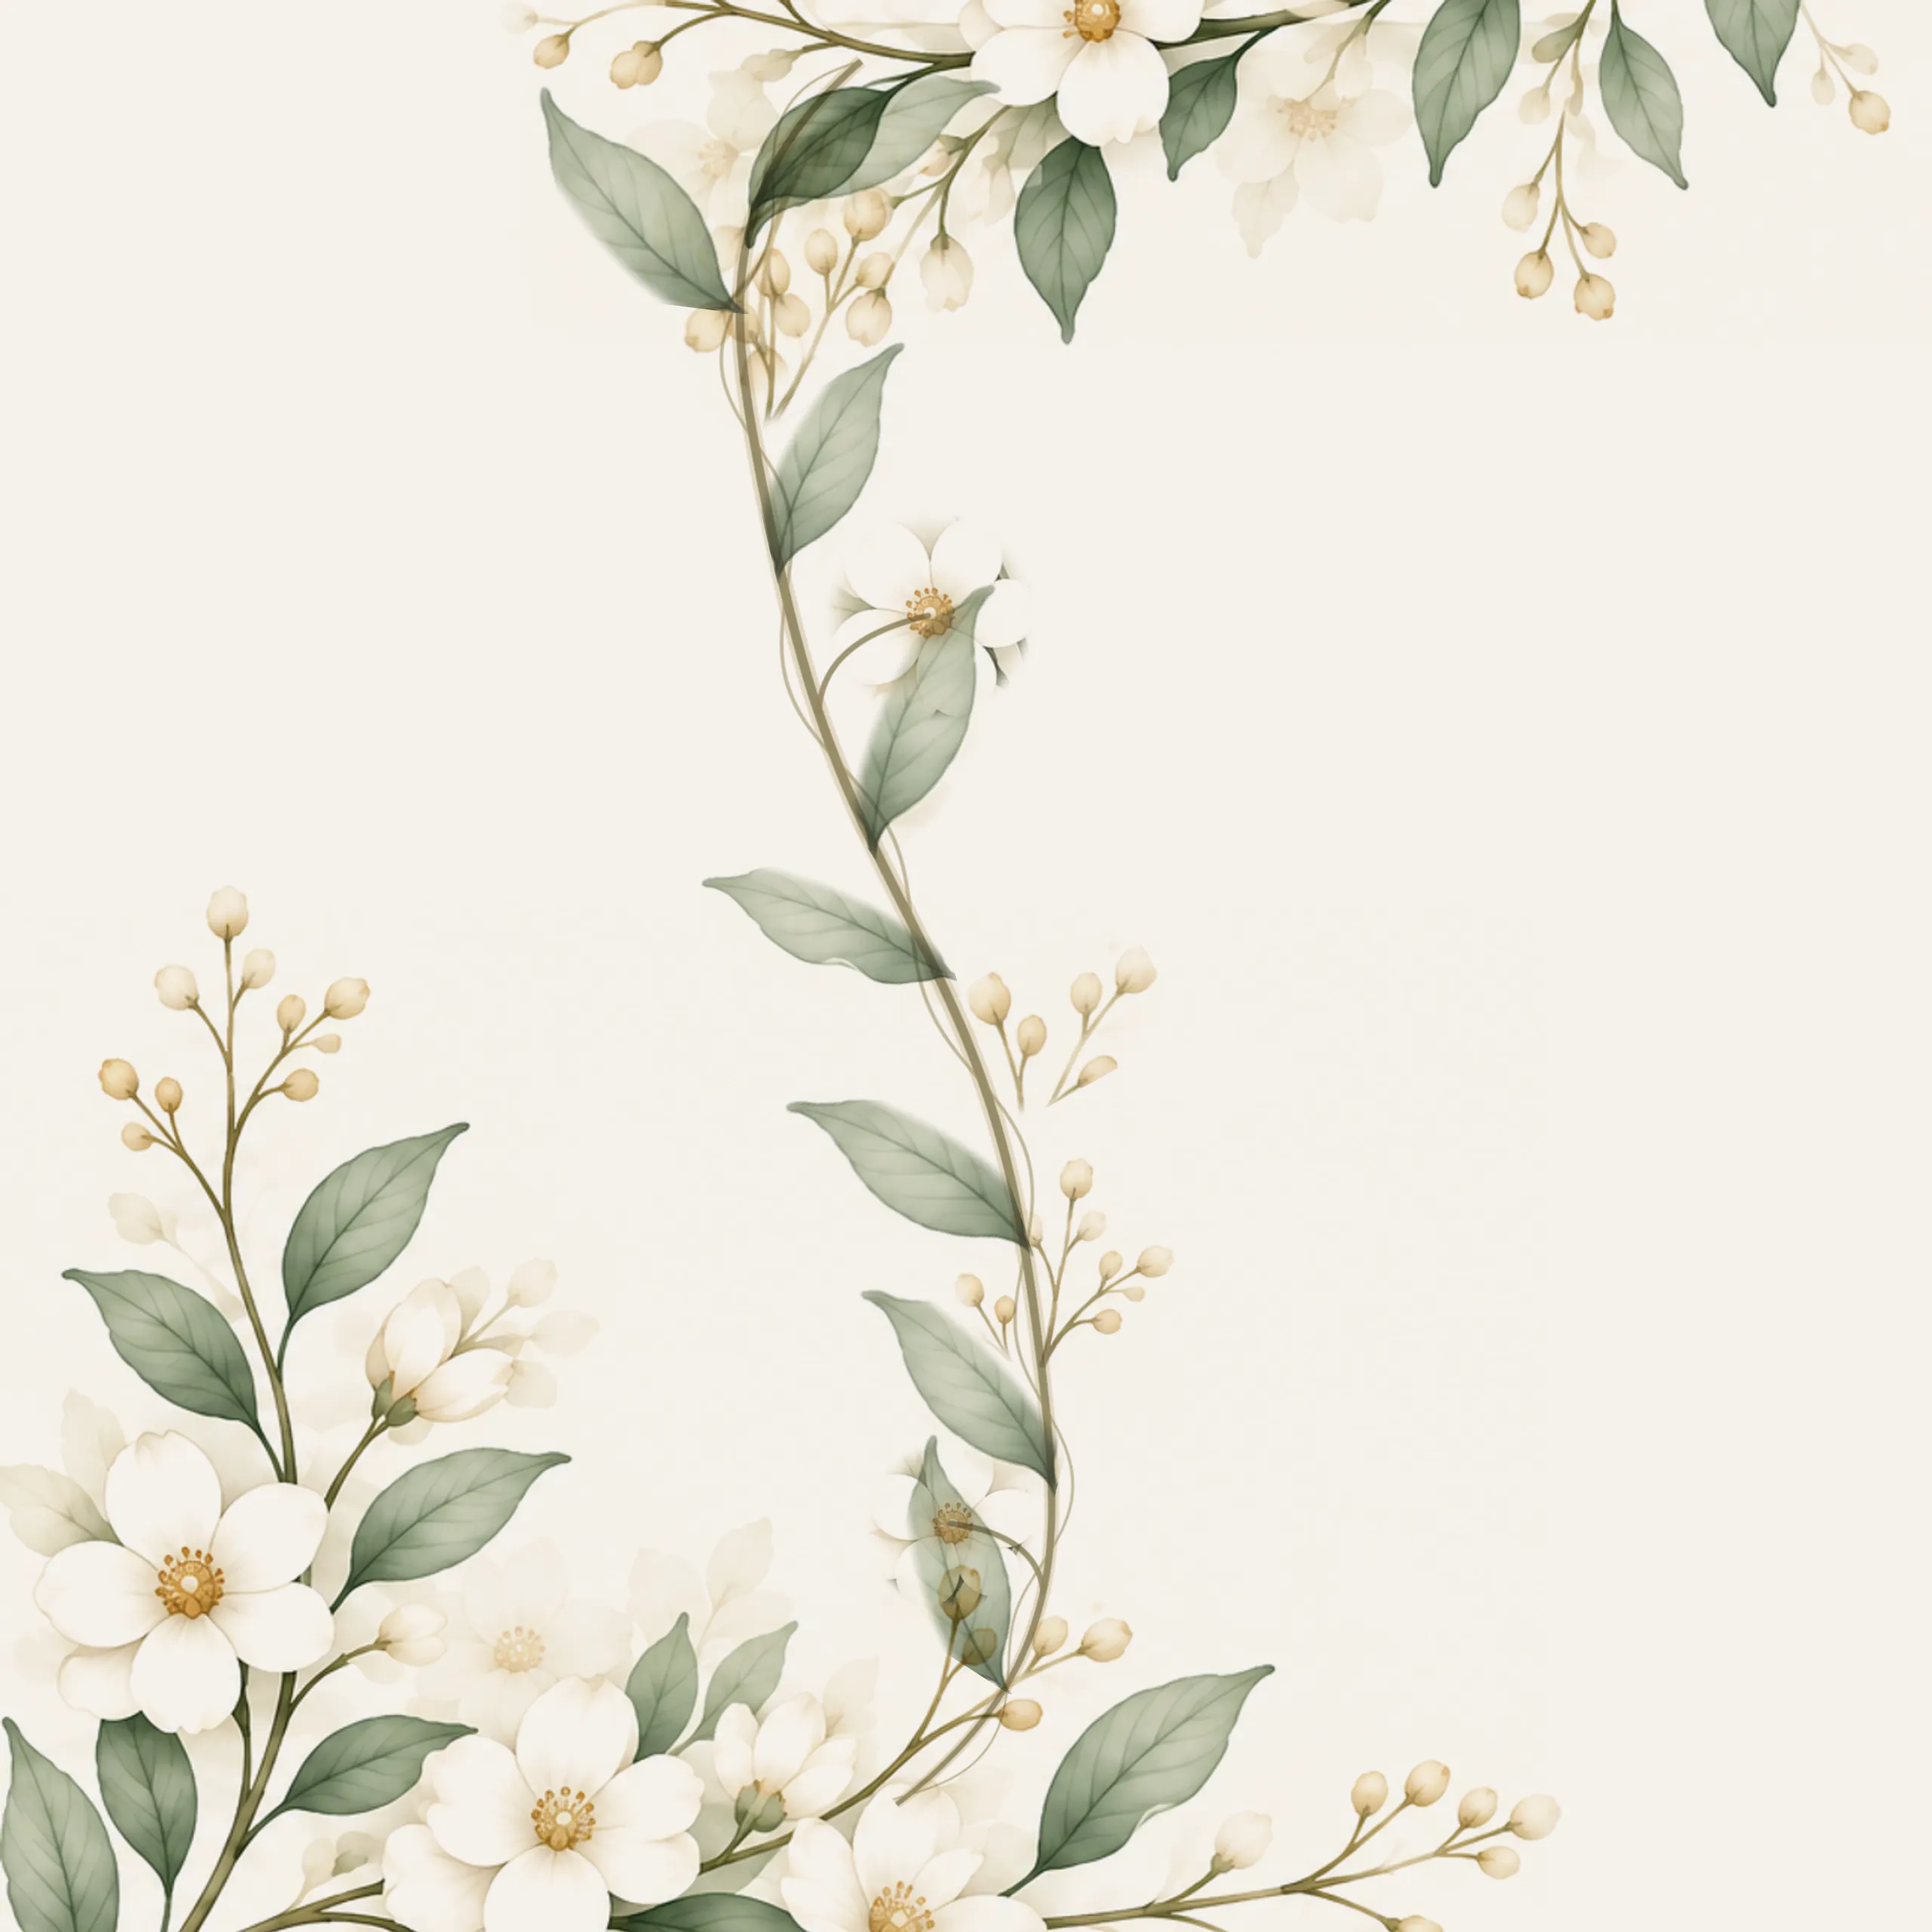
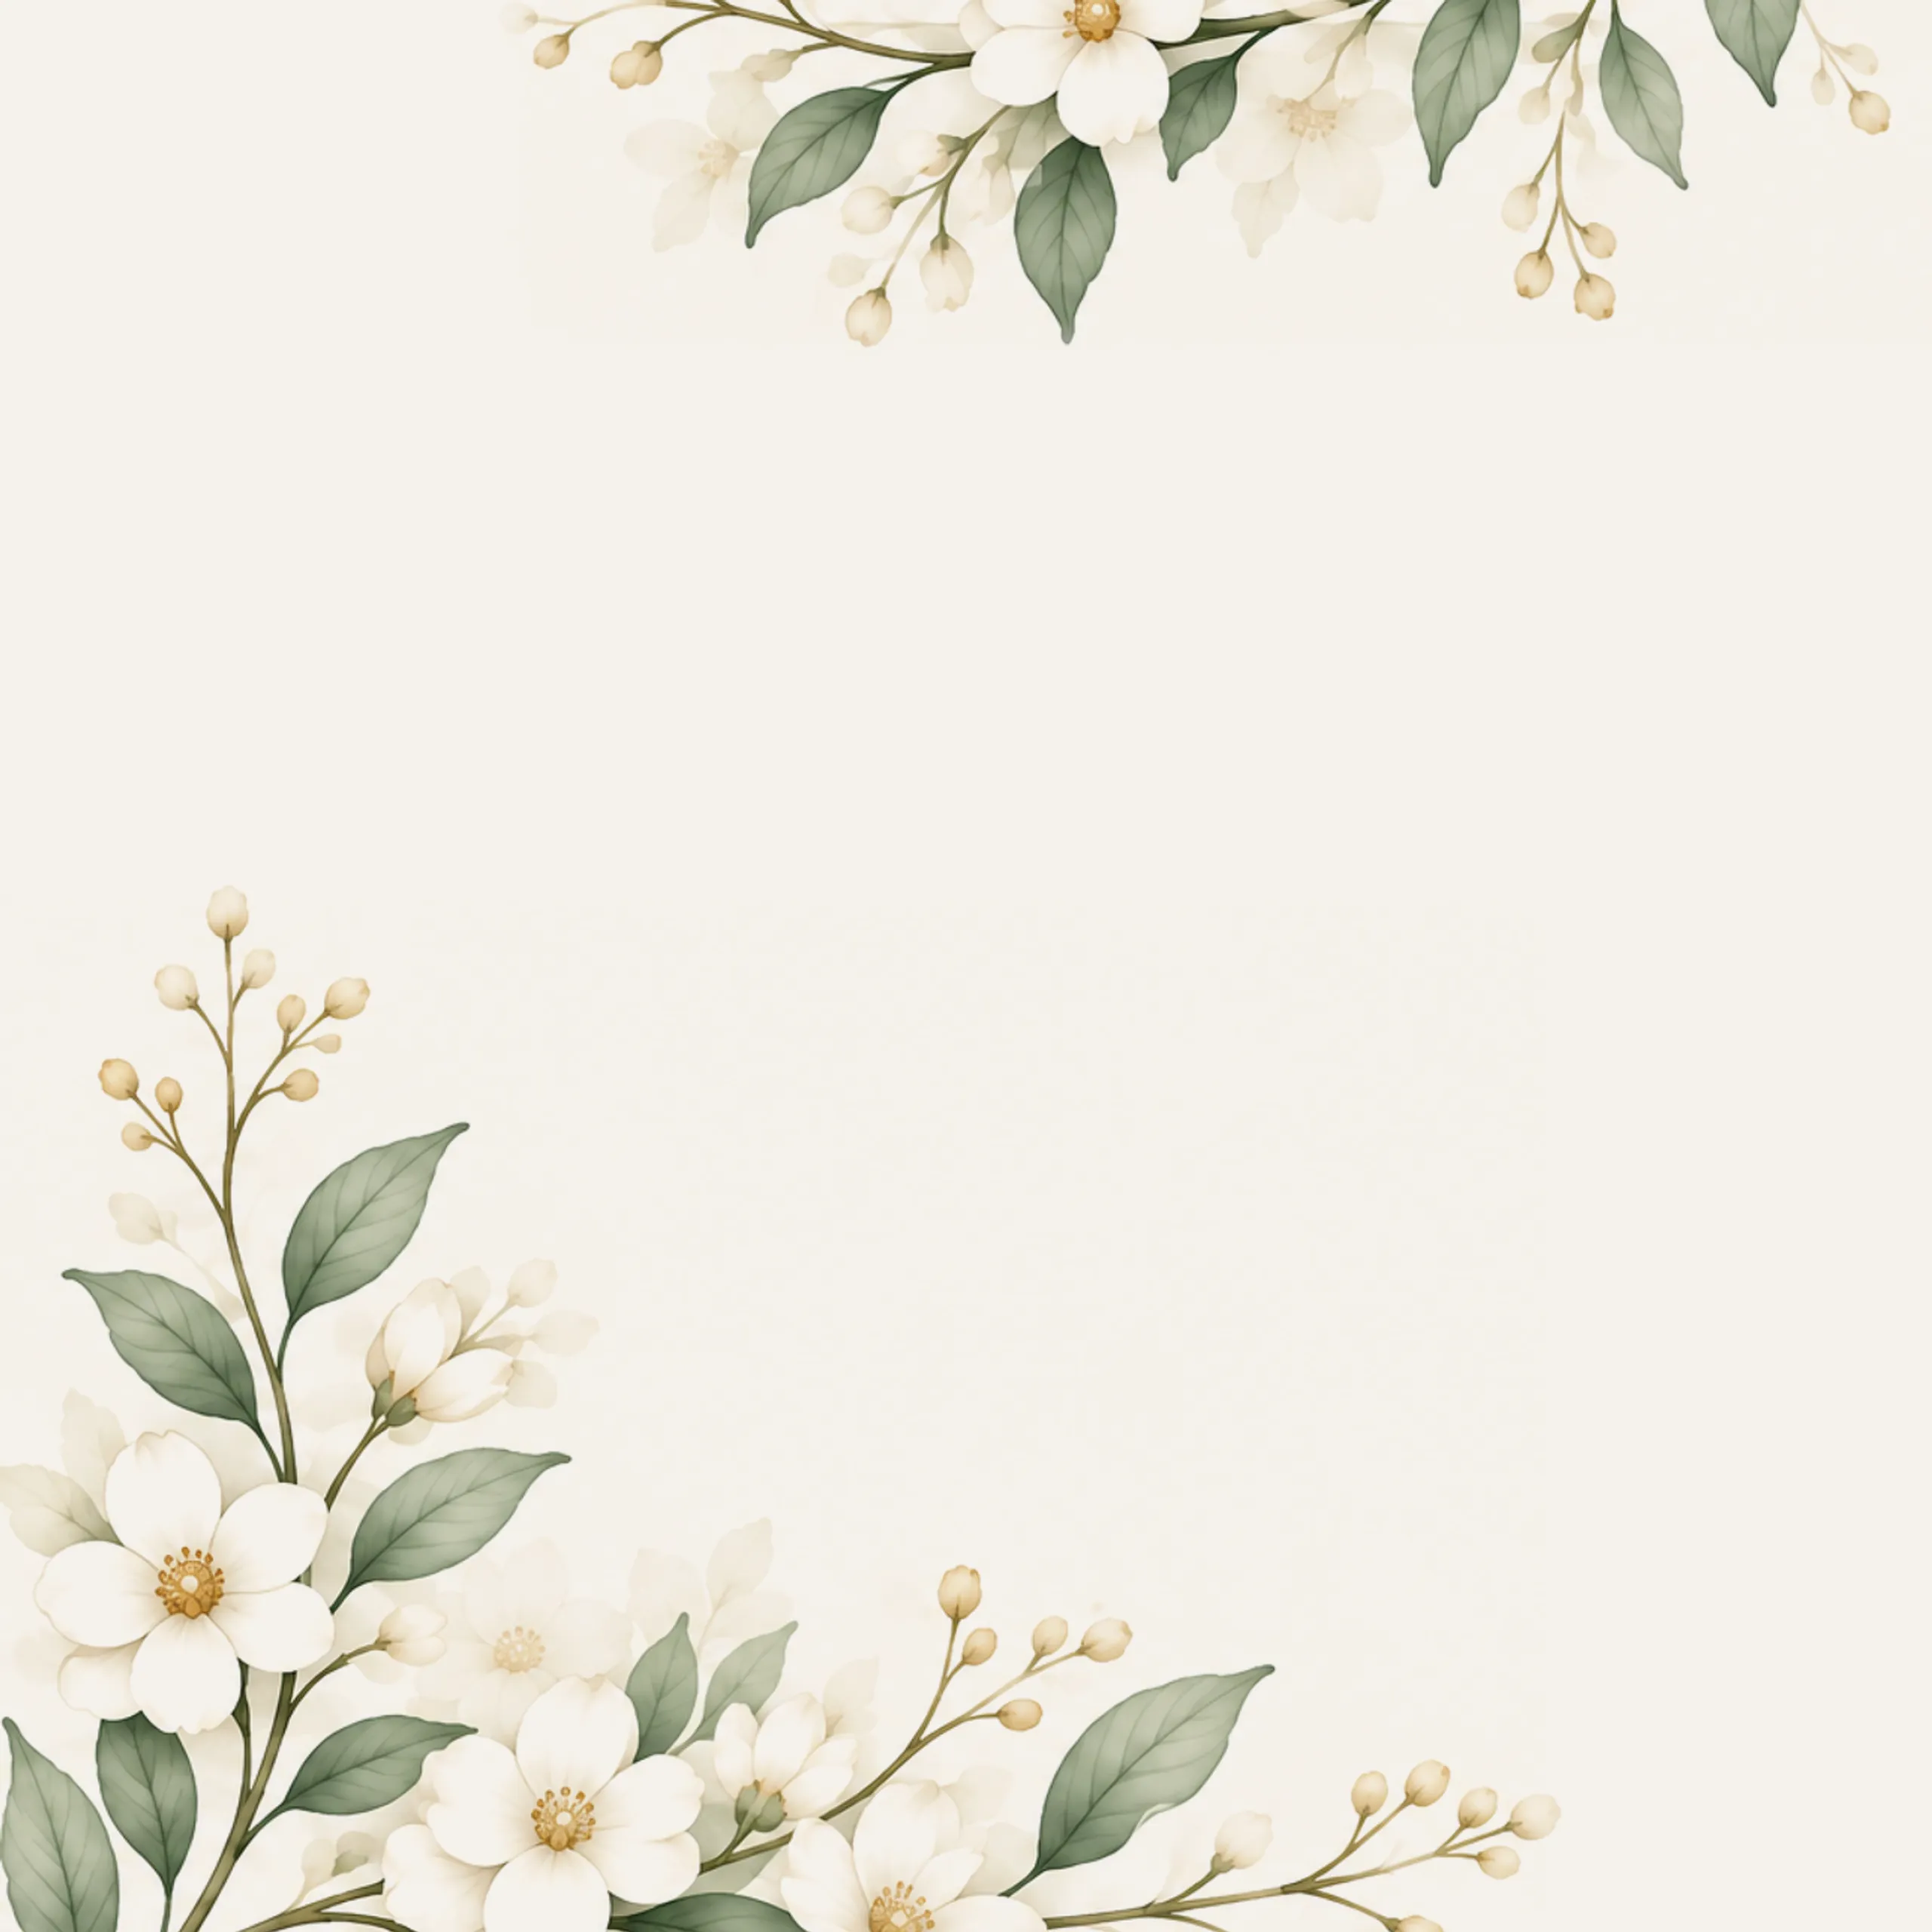
feat(botanical): Blossom loses the vine across the middle, keeping its two corner sprays (Pastor feedback, ticket 01)
Regenerated through scripts/botanical/compose.mjs; Tulips and Trees come out byte for byte the same.

Changed region(s): [[0.2812, 0.0312, 0.625, 0.9062], [0.4688, 0.9062, 0.5, 0.9375]]

diff --git a/tests/app/the-flower-stays-in-the-margins.test.ts b/tests/app/the-flower-stays-in-the-margins.test.ts
@@ -1,0 +1,39 @@
+import { readdirSync } from 'node:fs'
+import { fileURLToPath } from 'node:url'
+import sharp from 'sharp'
+import { describe, expect, it } from 'vitest'
+
+/**
+ * The watercolour behind sign-in and the Admin tabs (`public/botanical/`, painted by
+ * `scripts/botanical/compose.mjs`). Pastor feedback, ticket 01: the painting frames
+ * the content and never sits behind it, so Blossom keeps its two corner sprays and
+ * loses the vine that ran between them across the middle of the window.
+ *
+ * The stylesheet keeps the content column clear whatever the painting holds; this
+ * is the painting's own half of the rule, for every design at every window shape.
+ */
+const DIR = fileURLToPath(new URL('../../public/botanical/', import.meta.url))
+const PAPER = [0xf5, 0xf1, 0xeb] // --bg, which every composition is painted onto
+
+const files = readdirSync(DIR).filter((file) => file.endsWith('.webp'))
+
+describe('the flower stays in the margins', () => {
+  it('has a painting for every design at every window shape', () => {
+    for (const design of ['blossom', 'tulips', 'trees'])
+      expect(files.filter((file) => file.startsWith(`${design}-`))).toHaveLength(8)
+  })
+
+  // The middle of the window, between the sprays at every shape from a phone on end
+  // to an ultrawide: where the vine ran, and where the content column always is.
+  it.each(files)('%s is bare paper across the middle', async (file) => {
+    const { data, info } = await sharp(DIR + file).removeAlpha().raw().toBuffer({ resolveWithObject: true })
+    const { width: W, height: H } = info
+    let painted = 0
+    for (let y = Math.round(0.2 * H); y < 0.42 * H; y++)
+      for (let x = Math.round(0.3 * W); x < 0.7 * W; x++) {
+        const i = (y * W + x) * 3
+        if ([0, 1, 2].some((c) => Math.abs(data[i + c]! - PAPER[c]!) > 3)) painted++
+      }
+    expect(painted).toBe(0)
+  })
+})
